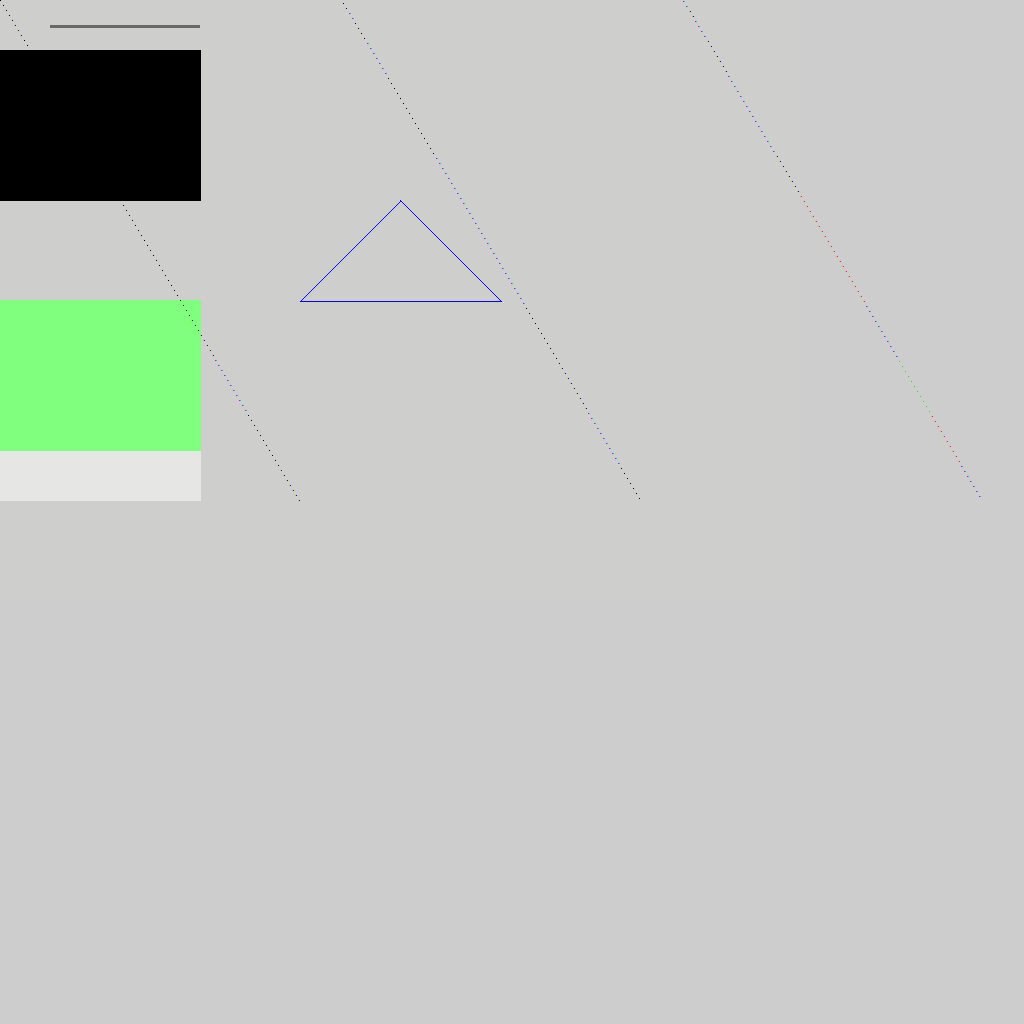
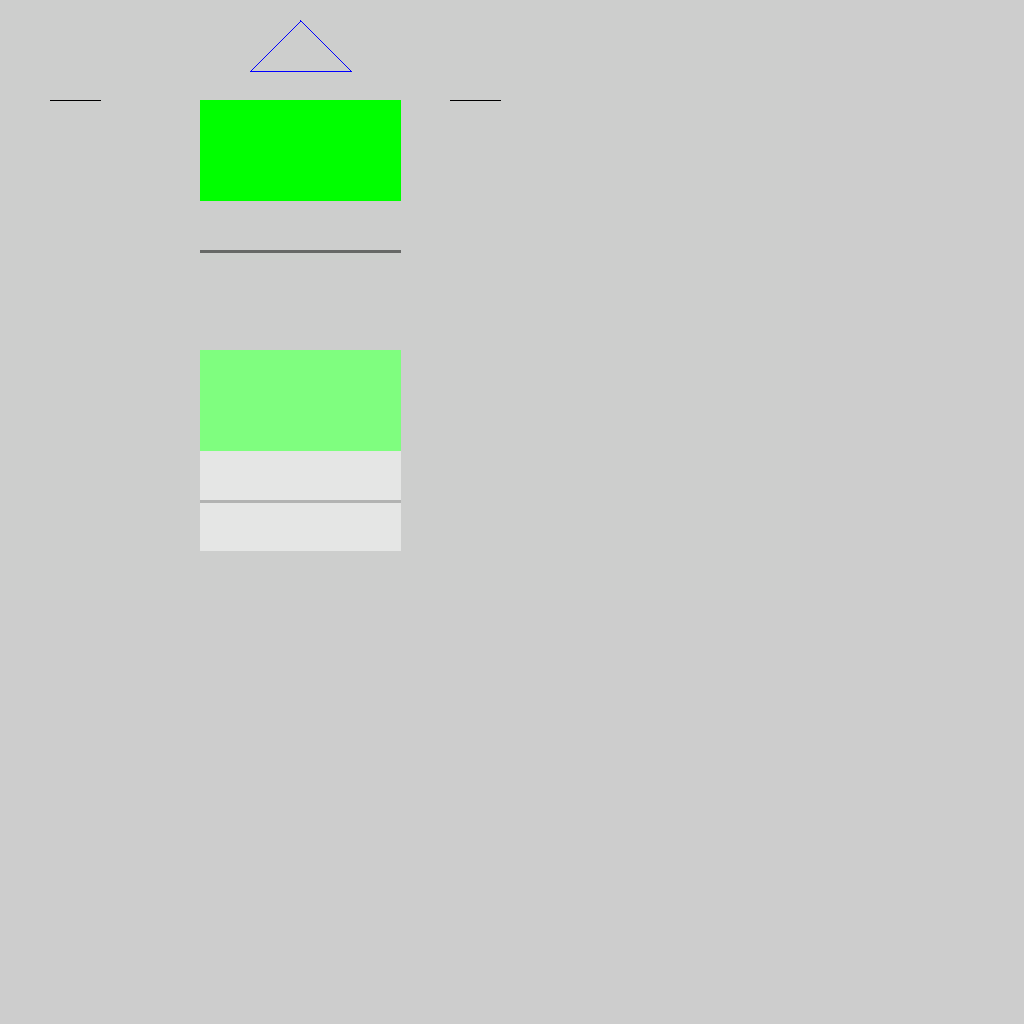
draws a pic of a abstract person
This is "draw a pic" ready.
All that is left is the convolution

Changed region(s): [[0.0, 0.2812, 0.4062, 0.5], [0.0, 0.0312, 0.4062, 0.25]]

diff --git a/src/CatPictureApp.cpp b/src/CatPictureApp.cpp
@@ -152,7 +152,7 @@ class CatPictureApp : public AppBasic {
 
 	
 	/**
-	* This method overlays a color over the entire surface by averaging the base colors with a red tint (255,0,0).
+	* This method overlays a color over the entire surface and updates it throughout a loop
 	*
 	* This satisfies requirement A.6.
 	*/
@@ -185,7 +185,7 @@ void CatPictureApp::drawLine(uint8_t* pixels, int x_start, int y_start, int line
 	if (  (x_start + line_width) <= AppWidth ) {
 	for (int y = y_start; y <= (y_start + line_height); y++) {
 
-		for ( int x = x_start; x <= line_width-1; x++){
+		for ( int x = x_start; x <= line_width; x++){
 			pixels [3* (x + y*(TextureSize))  ] = rndColor;
 			pixels [3* (x + y*(TextureSize))+1] = rndColor;
 			pixels [3* (x + y*(TextureSize))+2] = rndColor;
@@ -304,18 +304,19 @@ void CatPictureApp::drawTriangle (uint8_t* pixels, int side_length, int pt_x, in
 
 void CatPictureApp::makeLine ( uint8_t* pixels, int x0, int y0, int x1, int y1, Color8u c ){ 
 								
-	 int     x, offset;       
+	 int     x = 0, offset;       
 	 float   dy, dx, y, m;
 	 
 
 	//formula from geometry
 	 dy = y1 - y0;
 	 dx = x1 - x0;
-
 	 m = dy / dx;
 	 y = y0;
 
+
 			   // iterate and draw
+			//if (x1 > x0) {
 				for ( x = x0; x <= x1; x++ ) {
 				offset = 3 * (x + (y * TextureSize)); 
      
@@ -323,20 +324,58 @@ void CatPictureApp::makeLine ( uint8_t* pixels, int x0, int y0, int x1, int y1, 
 				 pixels [offset +1]= c.g;
 				 pixels [offset +2]= c.b; 
       
-				  y += m;   //* Step y by slope m 
-			   }			// end for loop
+				 y += m;   //* Step y by slope m 
+				 //return;
+				} // end for loop
+				
+				/**
+				} else {
+				
+				    for ( x = x1; x <= x0; x-- ) {
+					offset = 3 * (x + (y * TextureSize)); 
+     
+					 pixels [offset  ]=  c.r;
+					 pixels [offset +1]= c.g;
+					 pixels [offset +2]= c.b; 
+      
+					  y += m;   //* Step y by slope m 
+				
+					}// end for loop
+			}
+			*/
 
 }							// end makeLine
 
 
 void CatPictureApp::convoluteImage (uint8_t* image_to_convolute){
 	
+	int x, y, in_x, in_y;
+	int kernel;
+	kernel= //an array [9];
+
+
 	// create copy of original
 	Surface cloneSurface = Surface (TextureSize, TextureSize, false);
 	Surface copyArray = cloneSurface.clone(image_to_convolute);	
 
+	// outer loop to iterate around image
+	for(y = 0; y <= AppHeight-1; y++) {
+	   for(x = 0; x <= AppWidth-1; x++) {
 	
-}
+	// each of the inner's go from -1 to 1, a 3x3 matrix is (-1,-1) in the upper left and (1,1) lower right
+		for( in_y=-1; in_y<=1; in_y++){					
+			for( in_x=-1; in_x<=1; in_x++){
+	
+		// have to do the kernal transform here
+
+
+		  } //end inner_x
+		}  // end inner_y
+	
+	  } //end x
+	}   // end y	
+	
+}       // end convoluteImage
 
 
 void CatPictureApp::selectiveBlur(uint8_t* image_to_blur, uint8_t* blur_pattern){
@@ -538,26 +577,35 @@ void CatPictureApp::update()
 		
 		
 	/// make drawing calls ///
-
-	// drawLine method
-	drawLine (dataArray, 50, 25, 200, 2);
-
 	
-	//drawRectangle call
-	drawRectangle (dataArray, 200, 200, 0, 50, Color8u(0, 255, 0) );
-
-	//copyRectangle call
-	// 100, 100 wil copy just a subset of the above rectangle
-	copyRectangle(dataArray, 200, 200, 0, 300, 50, Color8u(255, 255, 255) );
-
-	// drawTriangle call
-	drawTriangle (dataArray, 100, 400, 200, Color8u(0, 0, 255) );
+	// drawLine method
+	// int x_start, int y_start, int line_width, int line_height
+	drawLine (dataArray, 200, 250, 400, 2);
+	
 
 	// makeLine call
-	makeLine (dataArray, 0, 0, 300, 500, Color8u(0, 255, 0) );
+	makeLine (dataArray, 100, 190, 100, 100, Color8u(0, 255, 0) );
+	makeLine (dataArray, 410, 100, 600, 100, Color8u(0, 255, 0) );
 
 	//tintOverlay call 
 	tintOverlay(dataArray, Color8u(0, 255, 0));
+
+	
+
+	
+	//drawRectangle call
+	//(uint8_t* pixels, int x_width, int y_height, int x_origin, int y_origin, Color8u c);
+	drawRectangle (dataArray, 200, 200, 200, 100, Color8u(0, 255, 0) );
+
+	//copyRectangle call
+	// 100, 100 for x & y_width will copy just a subset of the above rectangle
+	//(uint8_t* pixels, int x_width, int y_height, int x_origin, int y_origin, Color8u c);
+	copyRectangle(dataArray, 200, 200, 200, 350, 100, Color8u(255, 255, 255) );
+
+
+	// drawTriangle call
+	drawTriangle (dataArray, 50, 300, 20, Color8u(0, 0, 255) );
+	
 
 	// Convolution call
 	// convoluteImage(dataArray );
